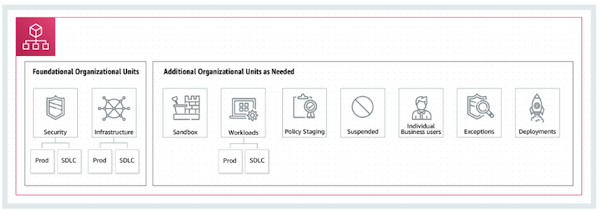
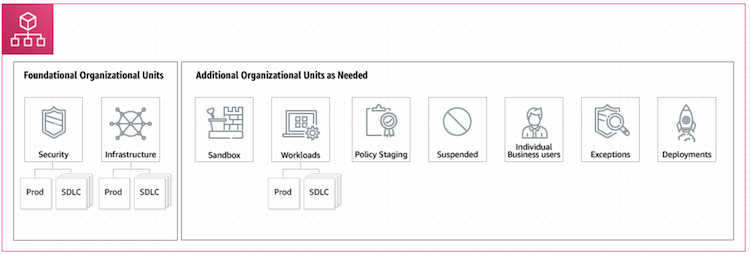
new post: AWS Control Tower Deep Dive

Changed region(s): [[0.0, 0.0, 1.0, 0.9953], [0.36, 0.7393, 0.48, 0.7962], [0.45, 0.7109, 0.48, 0.7393]]

diff --git a/_posts/2022-10-09-aws-control-tower-deep-dive.md b/_posts/2022-10-09-aws-control-tower-deep-dive.md
@@ -1,0 +1,211 @@
+---
+layout: post
+title: AWS Control Tower Deep Dive
+date: 2022-10-09 00:30 +0200
+last_modified_at:
+description: Second article about multi-account approach and specifically about AWS Control Tower where we will review all options.
+category:
+- Security
+tags:
+- multi-account
+- deep dive
+- security
+published: true
+pin: false
+featured_post: false
+comments: true
+sitemap: true
+img_path: /assets/img/posts/2022-10-09-aws-control-tower-deep-dive/
+---
+---
+
+## Introduction
+
+> This is the second article of AWS Control Tower and the AWS multi-account approach. [In the first article](/posts/multi-account-approach/){:target="_blank"} I had explained why you need a multi-account approach, what are the best practices and recommendations and how to create the landing zone using AWS Control Tower.
+{: .prompt-warning }
+
+In this article, we will continue to add new AWS accounts to our multi-account approach and review all options in the AWS Control Tower service.
+
+Once the creation of the landing zone by the AWS control tower is completed, it will have the following organizational structure:
+
+![organization.png](organization.png){:class="border"}
+
+Now, we will review all the options available in AWS Control Tower.
+
+## Single Sign-On
+
+We have more than one account and need/want a central place to access all accounts. Fortunately, AWS Control Tower provides us with a default configuration of the AWS Single Sign-On solution (**IAM Identity Center**, previously named AWS SSO).
+
+> IAM Identity Center expands the capabilities of AWS Identity and Access Management (IAM) to provide a central place that brings together administration of users and their access to AWS accounts and cloud applications.
+
+The default configuration used as identity source is _Identity Center directory_, that is, an internal directory where we can add users directly to give them access to the organization.
+
+### Settings
+
+This is the default configuration:
+
+![identity-center-settings](identity-center-settings.png){:class="border"}
+
+> You can update the identity source of the **IAM Identity Center** configuration to use your Active Directory or an external identity provider.
+{: .prompt-tip }
+
+### Users
+
+By default, only the email used for the root account is included as a user, but you need to confirm it and set a new password. This is a new user different from the root user of the AWS management account.
+
+![identity-center-users](identity-center-users.png){:class="border"}
+
+To add a new user with this configuration the following information is mandatory:
+
+- Username (required for this user to sign in to the AWS access portal. The username can't be changed later.)
+- Email address
+- First name
+- Last name
+- Display name (typically the full name of the workforce user, is searchable, and appears in the user's list)
+
+### Groups
+
+By default, the following groups are created:
+
+- AWSAccountFactory: Read-only access to account factory in AWS Service Catalog for end users
+- AWSSecurityAuditors: Read-only access to all accounts for security audits
+- AWSSecurityAuditPowerUsers: Power user access to all accounts for security audits
+- AWSServiceCatalogAdmins: Admin rights to account factory in AWS Service Catalog
+- AWSControlTowerAdmins: Admin rights to AWS Control Tower core and provisioned accounts
+- AWSLogArchiveAdmins: Admin rights to log archive account
+- AWSAuditAccountAdmins: Admin rights to cross-account audit account
+- AWSLogArchiveViewers: Read-only access to log archive account
+
+### Use of SSO
+
+You will access through one link similar to this "https://xxxxxxxxxxxxx.awsapps.com/start" y you will access to this portal:
+
+![sso-1](sso-1.png){:class="border"}
+
+When you successfully log in, you will see the following:
+
+![sso-2](sso-2.png){:class="border"}
+
+Clicking on the AWS account menu (number) will display information about these accounts:
+
+![sso-3](sso-3.png){:class="border"}
+
+## New Organizational Units (OUs)
+
+Creating a new Organizational Unit (OU) is very easy from the AWS Control Tower or AWS Organizations.
+
+- From AWS Control Tower: automatically will be registered in Control Tower service
+    ![new-ou-control-tower-1](new-ou-control-tower-1.png){:class="border"}
+    ![new-ou-control-tower-2](new-ou-control-tower-2.png){:class="border"}
+
+- From AWS Organizations: you need to register the OU in Control Tower
+    ![new-ou-organizations-1](new-ou-organizations-1.png){:class="border"}
+    ![new-ou-organizations-2](new-ou-organizations-2.png){:class="border"}
+    ![new-ou-organizations-3](new-ou-organizations-3.png){:class="border"}
+    ![new-ou-organizations-4](new-ou-organizations-4.png){:class="border"}
+    ![new-ou-organizations-5](new-ou-organizations-5.png){:class="border"}
+
+> So, if you are using AWS Control Tower, better use it instead of AWS Organizations to create new OUs (Organizational Units) or AWS accounts.
+{: .prompt-tip }
+
+## Account Factory
+
+> With the account factory you can provision new accounts and enroll existing accounts, and you can standardize your account and network configurations for creating multiple accounts.
+
+You can update the AWS Control Tower service to the Network configuration to define how VPCs will be created. When you save the changes, the defined configurations will be published to **AWS Service Catalog** as a product.
+
+To deploy new AWS accounts with Account Factory you have 2 options:
+
+1. Use the product in AWS Service Catalog:
+
+    ![service-catalog-1](service-catalog-1.png){:class="border"}
+    ![service-catalog-2](service-catalog-2.png){:class="border"}
+
+2. Use <kbd>Create accounts</kbd> in the Account Factory feature of AWS Control Tower
+
+    ![factory-account-new-account](factory-account-new-account.png){:class="border"}
+
+In both cases, the mandatory fields are:
+
+- Account email
+- Display name
+- Identity Center user email
+- IAM Identity Center user name
+- Organizational unit
+
+Also, in both cases, the Service Catalog is used behind the scenes.
+
+More information:
+
+- [Automate the creation of multiple accounts with Control Tower](https://aws.amazon.com/blogs/mt/how-to-automate-the-creation-of-multiple-accounts-in-aws-control-tower/){:target="_blank"}
+
+## Guardrails
+
+AWS Control Tower applies high-level rules, called guardrails, that help enforce your policies using service control policies (SCPs), and detect policy violations using AWS Config rules.
+
+AWS Control Tower has 64 controls (governance rules for your AWS environment) in 3 different categories of guidance.
+
+- **Mandatory**: always enforced
+  - **20 preventive** guardrails to enforce policies
+  - **3 detective** to detect configuration violations
+- **Strongly recommended**: designed to enforce some common best practices for well-architected, multi-account environments.
+  - Example: _Detect whether public write access to Amazon S3 buckets is allowed_
+- **Elective**: enable you to track or lock down actions that are commonly restricted in an AWS enterprise environment.
+
+### Enable controls
+
+So, there are 23 mandatory guardrails, but there are 41 others that you can enable. To enable one of them you select, click on <kbd>Enable control on OU</kbd> and then select one of them.
+
+![controls-enable](controls-enable.png){:class="border"}
+
+![controls-status](controls-status.png){:class="border"}
+
+![controls-dashboard](controls-dashboard.png){:class="border"}
+
+## Infrastructure as Code (IaC)
+
+There are at least 2 solutions to define as Infrastructure as Code (IaC) your AWS resources or SCPs and deploy it on each account (new or existing).
+
+- Customizations for Control Tower (CfCT): use CloudFormation
+- Use the Terraform module of Control Tower Account Factory for Terraform
+
+### Customizations for Control Tower (CfCT)
+
+> [Here](<https://docs.aws.amazon.com/controltower/latest/userguide/cfct-overview.html>){:target="_blank"} is the official documentation about CfCT and [here](https://github.com/aws-solutions/aws-control-tower-customizations/blob/main/customizations-for-aws-control-tower.template){:target="_blank"} is the public template that you need to install in the CloudFormation service.
+{: .prompt-info }
+
+Customizations for AWS Control Tower (CfCT) helps you customize your AWS Control Tower landing zone and stay aligned with AWS best practices. Customizations are implemented with AWS CloudFormation templates and service control policies (SCPs).
+
+Deploying CfCT builds the following environment in the AWS Cloud.
+
+![cfct-architecture-diagram](customizations-for-aws-control-tower-architecture-diagram.png){:class="border"}
+
+CfCT deploys two workflows:
+
+- an AWS CodePipeline workflow (executed when changes appear)
+- an AWS Control Tower lifecycle event workflow (executed when a new account is launched)
+
+To deploy CfCT:
+
+- Step 1: Launch the stack in CloudFormation [here](https://github.com/aws-solutions/aws-control-tower-customizations/blob/main/customizations-for-aws-control-tower.template){:target="_blank"}. You can choose S3 or CodeCommit as source
+- Step 2: connect to the source and perform some changes (CodePipeline will be deployed automatically when you upload the new changes)
+  - ![cfct-1](cfct-1.png){:class="border"}
+  - ![cfct-2](cfct-2.png){:class="border"}
+  - ![cfct-3](cfct-3.png){:class="border"}
+
+### Manage AWS Accounts Using Control Tower Account Factory for Terraform
+
+There is a Terraform module that makes it easy to create and customize new accounts that comply with your organization's security guidelines.
+
+[Here](https://learn.hashicorp.com/tutorials/terraform/aws-control-tower-aft){:target="_blank"} is the official link that explains how to do it step by step.
+
+---
+
+## Comment this post
+
+> I have temporarily added the comments section to the post here. In the future, I will add it in a better way and include all the validated comments (I guess that I will have to make a filter to avoid spam)
+{: .prompt-info }
+
+{% include comment-form.html %}
+{% include comment-form.js %}
+{% include forms.css %}

diff --git a/_posts/2022-07-18-multi-account-approach.md b/_posts/2022-07-18-multi-account-approach.md
@@ -9,6 +9,7 @@ category:
 tags:
 - multi-account
 - getting started
+- security
 published: true
 pin: false
 featured_post: false
@@ -134,6 +135,9 @@ AWS recommends that you start with the central services in mind:
 
 Once you have your foundational Organizational Units, is time to think about the environments, and separate SDLC (non-production) from production because usually have different requirements and you want each of them isolated. Although it can be a new OU categorization, is common to use it as a sub-categorization inside another OU level (for example Security and Infrastructure would have another 2 levels: SDLC and Prod).
 
+> EDIT: **SDLC** (Software Development Life Cycle) is used here because this article is based in the AWS recommendations and they use it for the name of one OU to include all the non-productive environments, for example [here](https://aws.amazon.com/blogs/mt/best-practices-for-organizational-units-with-aws-organizations){:target="_blank"} and [here](https://aws.amazon.com/organizations/getting-started/best-practices){:target="_blank"}. Btw, I "introduce" the concept of SDLC when I explain how to add CI/CD to my CDK project in [this other article](/posts/how-to-add-ci-cd-to-my-cdk-project/){:target="_blank"}. Please, if you found some error there, please let me know!
+{: .prompt-danger }
+
 Now, we have to think about all the additional OUs that you need. AWS recommends creating OUs that directly relate to building or running your products or services:
 
 - Sandbox
@@ -210,7 +214,10 @@ Now set a name for the Foundational Organizational Unit (Security, with 2 accoun
 
 ![aws-control-tower-4](aws-control-tower-4.png){:class="border"}
 
-Then configure the shared accounts (Foundational OU - security), set an email associated with the new accounts and a name for these 2 accounts (Log archive and Security audit):
+Then configure the shared accounts (Foundational OU - security), set an email associated with the new accounts and a name for these 2 accounts:
+
+- Log archive: *The log archive account is a repository of immutable logs of API activities and resource configurations from all accounts.*
+- Security audit: *The audit account is a restricted account. It allows your security and compliance teams to gain access to all accounts in the organization.*
 
 ![aws-control-tower-5](aws-control-tower-5.png){:class="border"}
 
@@ -219,12 +226,14 @@ Step 4 is to configure the CloudTrail and the encryption (disabled by default)
 
 Finally, you need to review all the information and confirm. Next, a new screen will be shown with the progress of the creation of the landing zone. The estimated time is 60 minutes.
 
-This is the summary of what is being set up:
-
-- 2 organizational units, one for your shared accounts and one for accounts that will be provisioned by your users.
-- 3 shared accounts, which are the management account and isolated accounts for log archive and security audit.
-- A native cloud directory with preconfigured groups and single sign-on access.
-- 20 preventive guardrails to enforce policies and 3 detective guardrails to detect configuration violations.
+> This is the summary of what is being set up:
+>
+> - **2 organizational units**, one for your shared accounts and one for accounts that will be provisioned by your users
+> - **2 new accounts**, for log archive and security audit
+> - **A native cloud directory** with preconfigured groups and single sign-on access
+> - **20 preventive guardrails** to enforce policies
+>  **3 detective guardrails** to detect configuration violations
+{: .prompt-info }
 
 ![aws-control-tower-7](aws-control-tower-7.png){:class="border"}
 
@@ -246,15 +255,18 @@ To clean up the AWS Control Tower you need to decommission it and then wait unti
 
 ![aws-control-tower-11](aws-control-tower-11.png){:class="border"}
 
-More useful information:
+## Next steps
 
-- [Practice: Workshop of multi-account security governance workshop](https://catalog.us-east-1.prod.workshops.aws/workshops/d3f60827-89f2-46a8-9be7-6e7185bd7665/en-US){:target>="_blank"}
-- [Practice: AWS Control Tower Immersion day](https://controltower.aws-management.tools/immersionday/){:target>="_blank"}
-- [Example of SCPs](https://docs.aws.amazon.com/organizations/latest/userguide/orgs_manage_policies_scps_examples.html#examples_general){:target>="_blank"}
-- [AWS blog article: migrate AWS Accounts to AWS Control Tower](https://aws.amazon.com/blogs/architecture/lets-architect-architecting-for-governance-and-management/){:target="_blank"}
-- [AWS blog article: Migrate resources between accounts](https://aws.amazon.com/blogs/architecture/migrate-resources-between-aws-accounts/){:target>="_blank"}
-- [Landing Zone accelerator on AWS](https://aws.amazon.com/solutions/implementations/landing-zone-accelerator-on-aws/){:target>="_blank"}
-- [Dependency checker to migrate between AWS Organizations](https://github.com/aws-samples/check-aws-resources-for-org-conditions){:target>="_blank"}
+- Next post: [AWS Control Tower Deep Dive](/posts/aws-control-tower-deep-dive/){:target="_blank"}
+- Comment this post
+- More information
+  - [Practice: Workshop of multi-account security governance workshop](https://catalog.us-east-1.prod.workshops.aws/workshops/d3f60827-89f2-46a8-9be7-6e7185bd7665/en-US){:target>="_blank"}
+  - [Practice: AWS Control Tower Immersion day](https://controltower.aws-management.tools/immersionday/){:target>="_blank"}
+  - [Example of SCPs](https://docs.aws.amazon.com/organizations/latest/userguide/orgs_manage_policies_scps_examples.html#examples_general){:target>="_blank"}
+  - [AWS blog article: migrate AWS Accounts to AWS Control Tower](https://aws.amazon.com/blogs/architecture/lets-architect-architecting-for-governance-and-management/){:target="_blank"}
+  - [AWS blog article: Migrate resources between accounts](https://aws.amazon.com/blogs/architecture/migrate-resources-between-aws-accounts/){:target>="_blank"}
+  - [Landing Zone accelerator on AWS](https://aws.amazon.com/solutions/implementations/landing-zone-accelerator-on-aws/){:target>="_blank"}
+  - [Dependency checker to migrate between AWS Organizations](https://github.com/aws-samples/check-aws-resources-for-org-conditions){:target>="_blank"}
 
 ---
 
